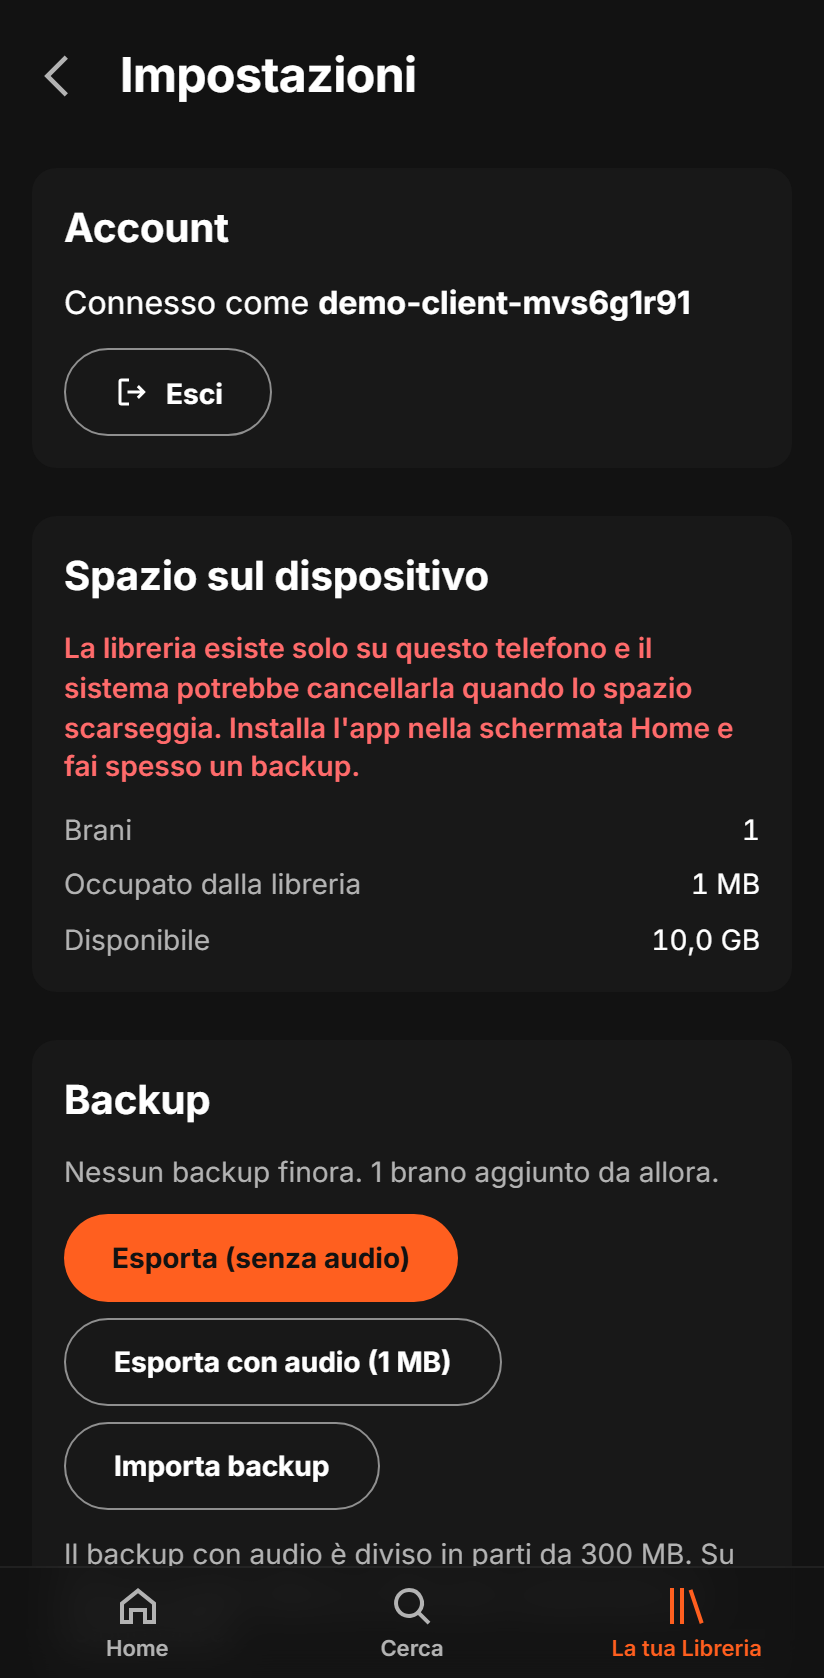
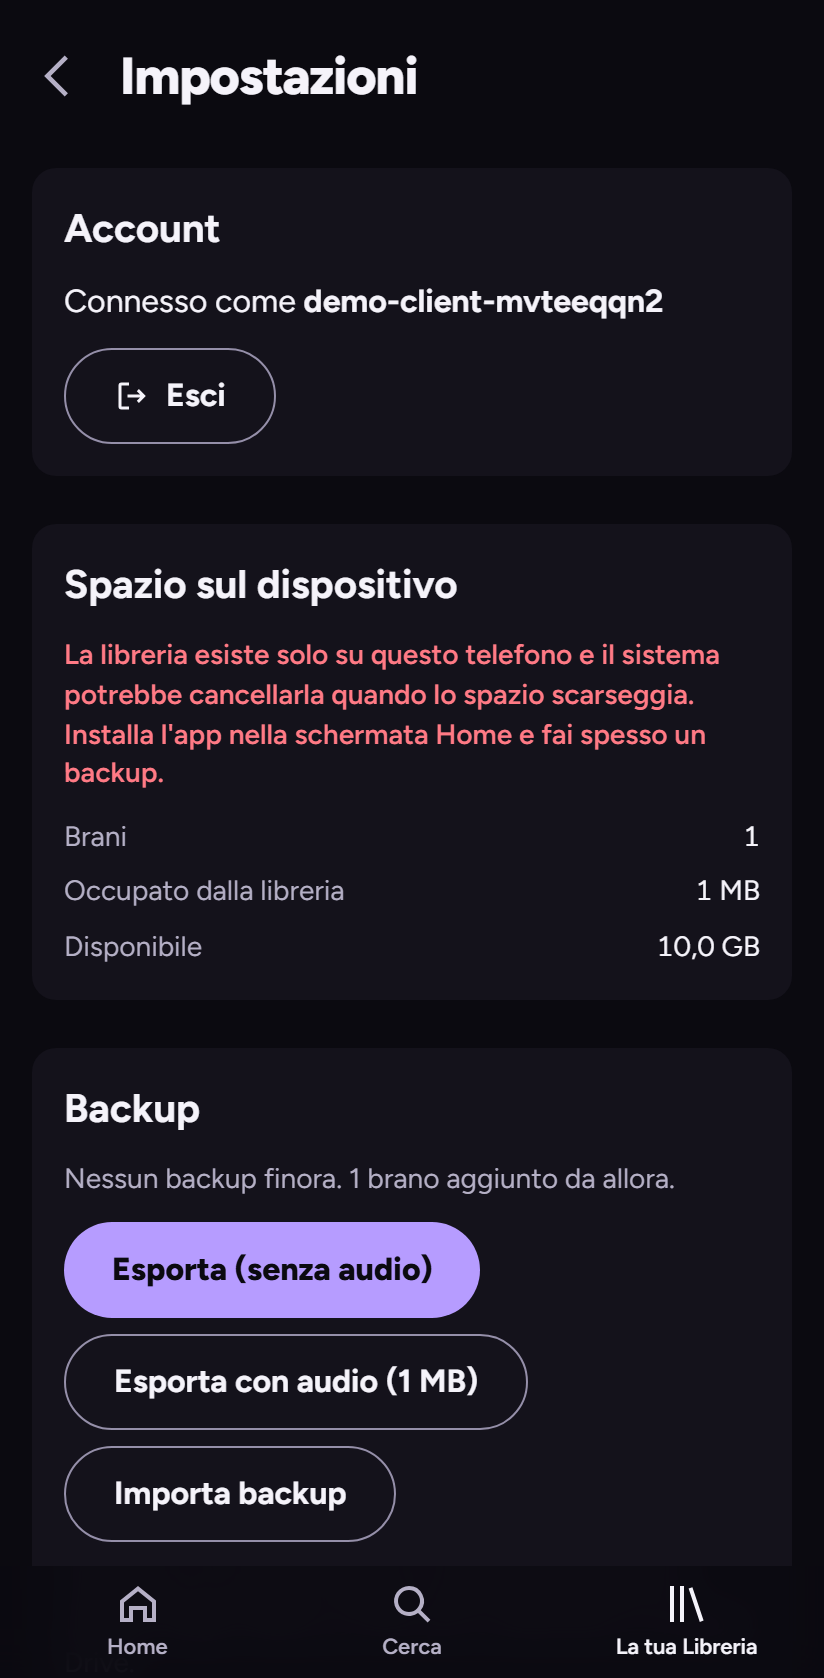
README: screenshot del nuovo stile e vista su PC

diff --git a/e2e/screenshots/readme.spec.ts b/e2e/screenshots/readme.spec.ts
@@ -1,5 +1,5 @@
 import path from 'node:path';
-import { type Page, expect, test } from '@playwright/test';
+import { type Page, devices, expect, test } from '@playwright/test';
 import { CLIENT_URL } from '../playwright.config';
 import { ensureServiceWorker, importFromSearch, register, uniqueUser } from '../tests/helpers';
 
@@ -43,6 +43,31 @@ test('on-premise', async ({ page }) => {
   await expect(page.getByTestId('full-player')).toBeVisible();
   await page.evaluate(() => document.querySelector('audio')?.pause());
   await shot(page, 'player');
+});
+
+test.describe('PC', () => {
+  test.use({
+    viewport: { width: 1440, height: 900 },
+    deviceScaleFactor: 1,
+    isMobile: false,
+    hasTouch: false,
+    userAgent: devices['Desktop Chrome'].userAgent,
+  });
+
+  test('home con colonna di navigazione e barra del player', async ({ page }) => {
+    await register(page, uniqueUser('demo', 'desktop'));
+    await ensureServiceWorker(page);
+    for (const i of [0, 1, 2]) await importFromSearch(page, 'come as you are', i);
+    await page
+      .getByTestId('remote-result')
+      .first()
+      .getByRole('button', { name: /^Riproduci/ })
+      .click();
+    await expect(page.getByTestId('mini-player')).toBeVisible();
+    await page.evaluate(() => document.querySelector('audio')?.pause());
+    await page.getByRole('link', { name: 'Home' }).click();
+    await shot(page, 'desktop');
+  });
 });
 
 test.describe('modalità client', () => {

diff --git a/README.md b/README.md
@@ -23,6 +23,8 @@ Player musicale personale: una **PWA** per iPhone e Android (audio in background
   </tr>
 </table>
 
+<img src="docs/screenshots/desktop.png" width="560" alt="Su PC: navigazione a sinistra e barra del player in basso">
+
 <sub>Screenshot con dati di prova, rigenerabili con `pnpm screenshots`.</sub>
 
 ## Come funziona
